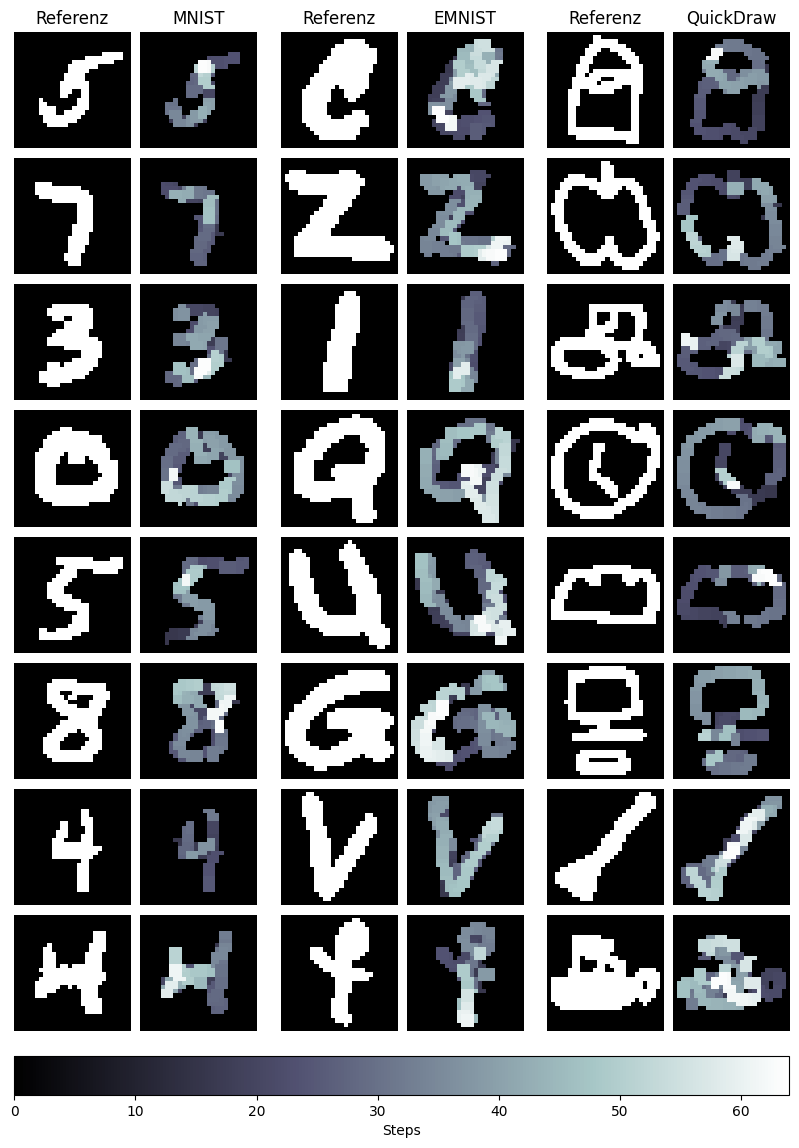
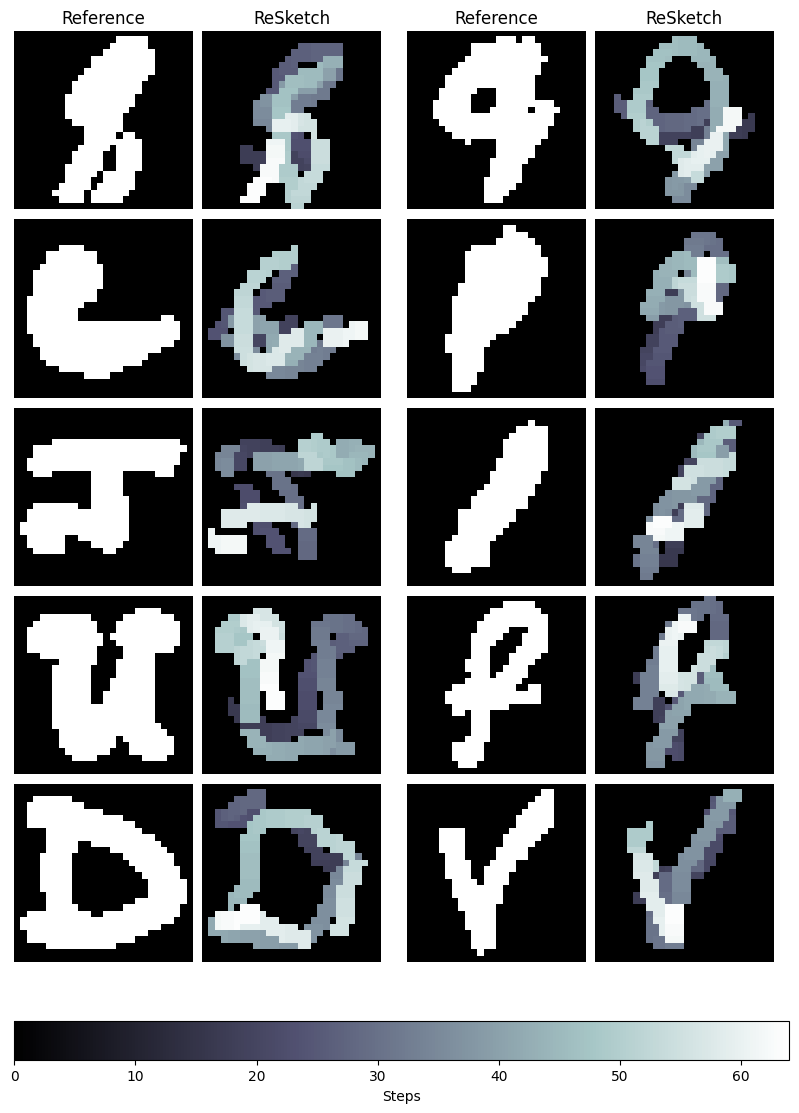
physic test fix and more

diff --git a/src/extras/physics_modules/environment.py b/src/extras/physics_modules/environment.py
@@ -9,7 +9,7 @@ from models.Predictor import Predictor
 
 
 class Environment(object):
-    def __init__(self, sidelength: int, patchsize: int, referenceData: np.array, n_actions : int,  do_render : bool = True, friction: float = 0.2, vel_1: float = 0.8, vel_2: float = 1.2):
+    def __init__(self, sidelength: int, patchsize: int, referenceData: np.array, n_actions : int,  do_render : bool = True, friction: float = 0.2, vel_1: float = 0.8, vel_2: float = 1.2, dataset="mnist", with_overdraw=False):
         self.s = sidelength
         self.p = patchsize  # sidelength of patch (local Input). must be odd
 
@@ -44,10 +44,21 @@ class Environment(object):
 
         self.score = 0
 
+        self.dataset = dataset
+        self.with_overdraw = with_overdraw
+
         # initializes rest
         self.lastSim = 0  # Last similarity between reference and canvas
         self.maxScore = 1 # Maximum Reward (changes with reference Image) = base Similarity between empty canvas and reference        
-        self.reference = referenceData[0] # Pick just the first image of the reference data in the first initialization
+        
+        self.overdrawn_perepisode = 0
+
+        self.label = 0
+        if len(self.referenceData[0]) == 2:
+            self.label, self.reference = referenceData[0] # Pick just the first image of the reference data in the first initialization
+        else:
+            self.reference = referenceData[0]
+        
         self.curRef = -1 #current reference image, counter that increments with every episode
         self.isDrawing = 0 # 0 = not Drawing, 1 = Drawing (not bool because NN)
         self.agentPos = [0, 0] # initialize agent position to top left corner of the image
@@ -146,6 +157,11 @@ class Environment(object):
         similarity = 0
         for i in range(self.s):
             for j in range(self.s):
+                # Check for overdrawn pixel
+                if self.canvas[i][j] > 1:
+                    self.overdrawn_perepisode += 1
+                    self.canvas[i][j] = 1  # Reset to normalized color view
+
                 similarity += (self.canvas[i][j] - self.reference[i][j])**2
         similarity /= self.maxScore
 
@@ -169,7 +185,7 @@ class Environment(object):
         :type pos: list
         """
         if self.isDrawing:
-            self.canvas = drawline(self.agentPos, pos, self.canvas)
+            self.canvas = drawline(self.agentPos, pos, self.canvas, with_overdrawn=self.with_overdraw)
             self.renderCanvas = drawline(self.agentPos, pos, self.renderCanvas, color=0.25+0.75*self.curStep/64)
         self.agentPos = pos
         self.update_distmap()
@@ -239,7 +255,14 @@ class Environment(object):
         # Get another reference image
         self.curRef += 1
         self.curRef = self.curRef % len(self.referenceData)
-        self.reference = self.referenceData[self.curRef]
+
+        self.overdrawn_perepisode = 0
+
+        self.label = 0
+        if len(self.referenceData[0]) == 2:
+            self.label, self.reference = self.referenceData[self.curRef] # Pick just the first image of the reference data in the first initialization
+        else:
+            self.reference = self.referenceData[self.curRef]
         
         self.score = 0
         
@@ -314,7 +337,7 @@ class Environment(object):
 
 
 # draws Line directly on bitmap to save convert
-def drawline(setpos, pos, canvas, color : float = 1):
+def drawline(setpos, pos, canvas, with_overdrawn: bool = False, color : float = 1):
     """
     drawline Draw a line on a specified canvas.
 
@@ -371,7 +394,10 @@ def drawline(setpos, pos, canvas, color : float = 1):
                 # Check out of bounds
                 if pix[1]+weight-y >= len(canvas) or pix[1]+weight-y < 0:
                     continue
-                canvas[pix[1]+weight-y][pix[0]] = color
+                if with_overdrawn:
+                    canvas[pix[1]+weight-y][pix[0]] += color
+                else:
+                    canvas[pix[1]+weight-y][pix[0]] = color
                 
                     
     
@@ -398,7 +424,10 @@ def drawline(setpos, pos, canvas, color : float = 1):
                 # Check out of bounds
                 if pix[0]+weight-x >= len(canvas) or pix[0]+weight-x < 0:
                     continue
-                canvas[pix[1]][pix[0]+weight-x] = color
+                if with_overdrawn:
+                    canvas[pix[1]][pix[0]+weight-x] += color
+                else:
+                    canvas[pix[1]][pix[0]+weight-x] = color
 
     return canvas
 

diff --git a/src/test.py b/src/test.py
@@ -39,7 +39,7 @@ def physics_test(args):
     glob_in_dims = (4, canvas_size, canvas_size)
     loc_in_dims = (2, patch_size, patch_size)
     
-    env =  Phy_Env(canvas_size, patch_size, data.pro_data, n_actions=n_actions, friction=0.3, vel_1=0.9, vel_2=1.5)
+    env =  Phy_Env(canvas_size, patch_size, data.labeled_pro_data, n_actions=n_actions, friction=0.3, vel_1=0.9, vel_2=1.5, with_overdraw=True, dataset=args.dataset.split("_")[0])
     agent_args = {"gamma": 0, "epsilon_episodes": 1000, "epsilon": 0, "alpha": 0, "replace_target": 1000, 
                   "global_input_dims": glob_in_dims, "local_input_dims": loc_in_dims, 
                   "mem_size": 1000, "batch_size": 64, "n_actions": n_actions}
@@ -58,8 +58,9 @@ def physics_test(args):
     
     # process Results
     images = scores.pop(-1)
-    reward, accuracy, datarec, speed = [float('%.3f' % s) for s in scores]
-    log.info(f'reward: {reward}, accuracy: {accuracy}, {data.dataset}-recognition: {datarec}, speed {speed}')
+
+    reward, accuracy, datarec, speed, drawratio, overdraw = [float('%.3f' % s) for s in scores]
+    log.info(f'reward: {reward}, accuracy: {accuracy}, {data.dataset}-recognition: {datarec}, speed {speed}, drawratio: {drawratio}, overdrawn: {overdraw}')
     generate_image(images)
 
 
@@ -80,7 +81,7 @@ def reproduce_test(args):
     # initialize environment
     canvas_size = 28
     patch_size = 7
-    env = Rep_Env(canvas_size, patch_size, data.labeled_pro_data, with_stopAction=True)
+    env = Rep_Env(canvas_size, patch_size, data.labeled_pro_data, with_stopAction=True, with_overdraw=True, dataset=args.dataset.split("_")[0])
     agent_args = {"softmax": args.softmax, "gamma": 0, "epsilon_episodes": 1000, "epsilon": 0, "alpha": 0, "replace_target": 1000, 
                   "global_input_dims": (4, canvas_size, canvas_size), "local_input_dims": (2, patch_size, patch_size), 
                   "mem_size": 1000, "batch_size": 64}
@@ -103,6 +104,10 @@ def reproduce_test(args):
     log.info(f'reward: {reward}, accuracy: {accuracy}, {data.dataset}-recognition: {datarec}, speed {speed}, drawratio: {drawratio}, overdrawn: {overdraw}')
     generate_image(images)
 
+    with open(f"results/{args.name}-{args.dataset}", "w") as f:
+        f.write(f'reward: {reward}, accuracy: {accuracy}, {data.dataset}-recognition: {datarec}, speed {speed}, drawratio: {drawratio}, overdrawn: {overdraw}')
+
+
 
 @critical
 def generative_test(args):
@@ -117,7 +122,7 @@ def generative_test(args):
     # initialize environment
     canvas_size = 28
     patch_size = 7
-    env = Rep_Env(canvas_size, patch_size, referenceData=np.full((args.test, 28, 28), 1), generative=True, with_stopAction=True, with_noisy=args.noisyPixel)
+    env = Rep_Env(canvas_size, patch_size, referenceData=np.full((args.test, 28, 28), 1), generative=True, with_stopAction=True, with_noisy=args.noisyPixel, dataset=args.dataset.split("_")[0])
     env.label = int(args.genMotive)
 
     agent_args = {"softmax": args.softmax, "gamma": 0, "epsilon_episodes": 1000, "epsilon": 0, "alpha": 0, "replace_target": 1000, 
@@ -143,8 +148,6 @@ def generative_test(args):
     datarec, speed, drawratio = [float('%.3f' % s) for s in scores]
     log.info(f'mnist-recognition: {datarec}, speed: {speed}, drawratio: {drawratio}' )
     generate_generative_image(images)
-
-
 
 
 

diff --git a/src/train.py b/src/train.py
@@ -49,7 +49,7 @@ def physics(args):
     data.sample(n_episodes)
 
     # create Environment, Agent
-    env =  Phy_Env(canvas_size, patch_size, data.pro_data, n_actions=n_actions, friction=hyp_data["friction"], vel_1=hyp_data["vel_1"], vel_2=hyp_data["vel_2"])
+    env =  Phy_Env(canvas_size, patch_size, data.labeled_pro_data, n_actions=n_actions, friction=hyp_data["friction"], vel_1=hyp_data["vel_1"], vel_2=hyp_data["vel_2"])
     agent_args = {"softmax": args.softmax, "gamma": hyp_data["gamma"], "epsilon": hyp_data["epsilon"], "epsilon_episodes": hyp_data["epsilon_episodes"], "alpha": hyp_data["alpha"], "replace_target": int(hyp_data["replace_target"]), 
                   "global_input_dims": glob_in_dims, "local_input_dims": loc_in_dims, 
                   "mem_size": mem_size, "batch_size": batch_size, "n_actions": n_actions}
@@ -104,7 +104,7 @@ def reproduce(args):
     data.sample(n_episodes)
 
     # create Environment, Agent
-    env = Rep_Env(canvas_size, patch_size, data.labeled_pro_data, with_stopAction=args.stopAction, with_liftpen=args.liftpen, with_overdraw=args.overdraw, with_noisy=False, generative=False)
+    env = Rep_Env(canvas_size, patch_size, data.labeled_pro_data, with_stopAction=args.stopAction, with_liftpen=args.liftpen, with_overdraw=args.overdraw, with_noisy=False, generative=False, dataset=args.dataset.split("_")[0])
     agent_args = {"softmax": args.softmax, "gamma": hyp_data["gamma"], "epsilon": hyp_data["epsilon"], "epsilon_episodes": hyp_data["epsilon_episodes"], "alpha": hyp_data["alpha"], "replace_target": int(hyp_data["replace_target"]), 
                   "global_input_dims": glob_in_dims, "local_input_dims": loc_in_dims, 
                   "mem_size": mem_size, "batch_size": batch_size}
@@ -159,7 +159,7 @@ def generative(args):
     data.sample_by_category(data.motive, n_episodes)
 
     # create Environment + Agent
-    env = Rep_Env(canvas_size, patch_size, data.labeled_pro_data, with_stopAction=2, with_liftpen=args.liftpen, with_overdraw=args.overdraw, with_noisy=args.noisyPixel, generative=True)
+    env = Rep_Env(canvas_size, patch_size, data.labeled_pro_data, with_stopAction=2, with_liftpen=args.liftpen, with_overdraw=args.overdraw, with_noisy=args.noisyPixel, generative=True, dataset=args.dataset.split("_")[0])
     agent_args = {"softmax": args.softmax, "gamma": hyp_data["gamma"], "epsilon": hyp_data["epsilon"], "epsilon_episodes": hyp_data["epsilon_episodes"], "alpha": hyp_data["alpha"], "replace_target": int(hyp_data["replace_target"]), 
                   "global_input_dims": glob_in_dims, "local_input_dims": loc_in_dims, 
                   "mem_size": mem_size, "batch_size": batch_size}

diff --git a/src/modules/environment.py b/src/modules/environment.py
@@ -6,7 +6,7 @@ from models.Predictor import Predictor
 
 
 class Environment(object):
-    def __init__(self, sidelength: int, patchsize: int, referenceData: np.array, with_stopAction : int = 0,  with_liftpen : bool = False, with_overdraw : bool = False, with_noisy : bool = False, generative : bool = False, do_render : bool = True):
+    def __init__(self, sidelength: int, patchsize: int, referenceData: np.array, with_stopAction : int = 0,  with_liftpen : bool = False, with_overdraw : bool = False, with_noisy : bool = False, generative : bool = False, dataset="mnist", do_render : bool = True):
         self.s = sidelength
         self.p = patchsize
 
@@ -54,10 +54,14 @@ class Environment(object):
         self.with_noisy = with_noisy
         self.generative = generative
 
+        
+
         # variation variables
         self.overdrawn_perepisode = 0
         self.score = 0
-        self.rec_model = Predictor(mnist=True)
+
+        self.dataset = dataset
+        self.rec_model = Predictor(mnist=True, emnist=True, quickdraw=True)
 
         # rendering / visualization
         self.renderCanvas = np.zeros((self.s, self.s))
@@ -186,7 +190,14 @@ class Environment(object):
             else: speed_factor = 1 - (step/64)**SPEED
             return accuracy_factor * speed_factor * WEIGHT
         elif self.with_stopAction == 2:
-            prediction = self.rec_model.mnist(self.canvas, mode="soft")[self.label] - 0.8
+            if self.dataset == "emnist":
+                print("emnist")
+                prediction = self.rec_model.emnist(self.canvas, mode="soft")[self.label] - 0.8
+            elif self.dataset == "quickdraw":
+                prediction = self.rec_model.quickdraw(self.canvas, mode="soft")[self.label] - 0.8
+            else:
+                prediction = self.rec_model.mnist(self.canvas, mode="soft")[self.label] - 0.8
+
             if prediction < 0:
                 return prediction*0.5
             else:
@@ -197,7 +208,7 @@ class Environment(object):
     # set agent position
     def set_agentPos(self, pos: list):
         if self.isDrawing:
-            self.canvas = drawline(self.agentPos, pos, self.canvas, with_overdrawn=True)
+            self.canvas = drawline(self.agentPos, pos, self.canvas, with_overdrawn=self.with_overdraw)
             self.renderCanvas = drawline(self.agentPos, pos, self.renderCanvas, color=0.25+0.75*self.curStep/64)
         self.agentPos = pos
         self.update_distmap()

diff --git a/src/test_functions.py b/src/test_functions.py
@@ -65,9 +65,9 @@ def test_env(env, agent, data, n_episodes, n_steps=64, t_vis: bool = True):
 
         reward_scores.append(score)
         accuracy_scores.append(1 - env.lastSim)
-        if data.dataset == "emnist":
+        if env.dataset == "emnist":
             rec = env.label == predict.emnist(env.canvas, mode="test")
-        elif data.dataset == "quickdraw":
+        elif env.dataset == "quickdraw":
             rec = env.label == predict.quickdraw(env.canvas, mode="test")
         else:
             rec = env.label == predict.mnist(env.canvas, mode="test")
@@ -150,7 +150,14 @@ def generative_test_env(env, agent, n_episodes, n_steps=64):
             if env.translate_action(action) == True:
                 break
 
-        rec = env.label == predict.mnist(env.canvas, mode="test")
+        if env.dataset == "emnist":
+            rec = env.label == predict.emnist(env.canvas, mode="test")
+        elif env.dataset == "quickdraw":
+            rec = env.label == predict.quickdraw(env.canvas, mode="test")
+        else:
+            rec = env.label == predict.mnist(env.canvas, mode="test")
+
+
         datarec_scores.append(int(rec))
         speed_scores.append(last_step)
         if last_step == 0: drawratio_scores.append(0)

diff --git a/src/Doc_Image_Generator.py b/src/Doc_Image_Generator.py
@@ -24,7 +24,7 @@ from matplotlib import cm, colors
 
 
 @critical
-def reproduce_generate(model_name="base0.1", testnum = 26, rows = 8):
+def reproduce_generate(model_name="0.1", testnum = 100, rows = 8):
     # load data
     data = AI_Data("mnist_test")
     data.sample(testnum)
@@ -46,6 +46,8 @@ def reproduce_generate(model_name="base0.1", testnum = 26, rows = 8):
         )
 
     mnist_images = scores.pop(-1)[:rows]
+
+    print(scores)
 
     # load data
     data = AI_Data("emnist_test")
